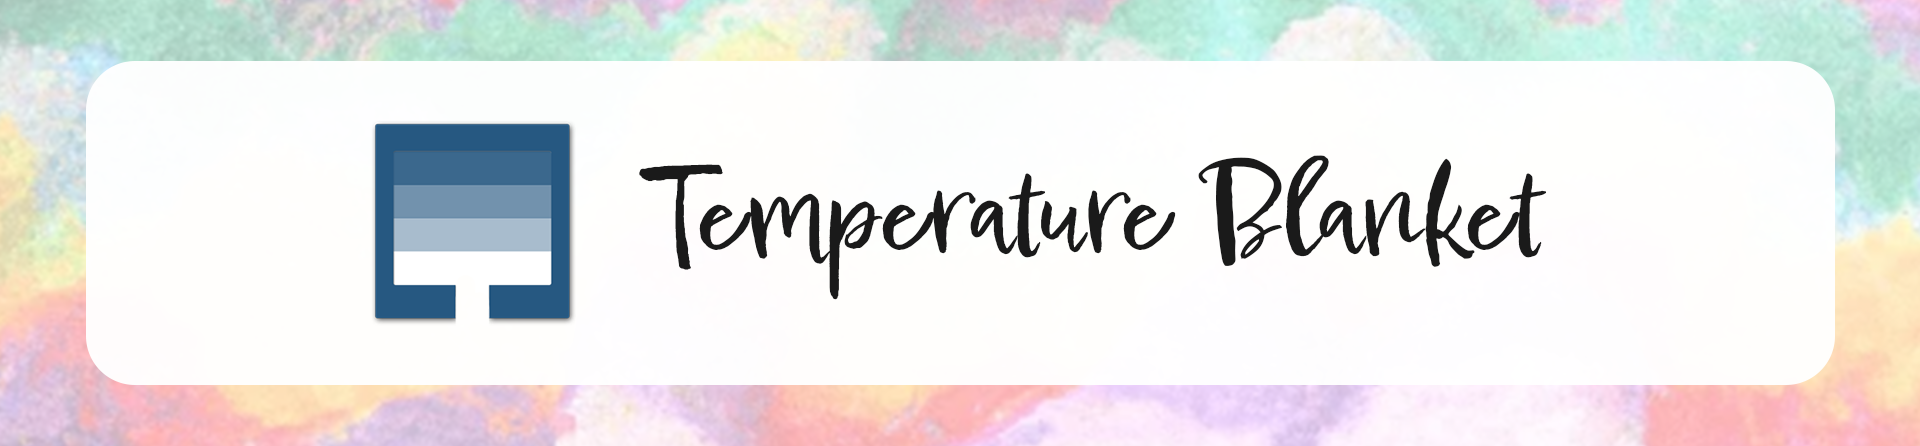
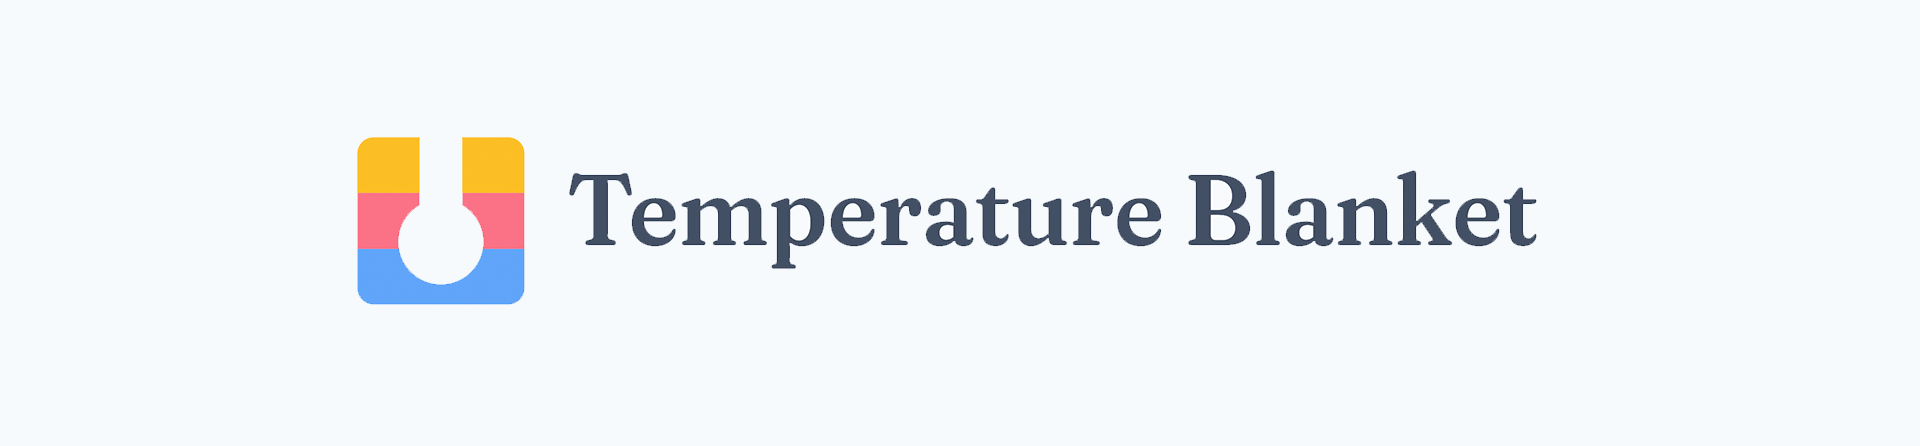
updated images

diff --git a/src/lib/components/AppLogo.svelte b/src/lib/components/AppLogo.svelte
@@ -19,23 +19,21 @@ If not, see <https://www.gnu.org/licenses/>. -->
 
 <div class="[view-transition-name:app-logo]">
   <div class="flex items-center gap-2 mx-4">
-    <div>
-      <div class="flex rounded-[0.2rem] overflow-hidden">
-        <div class="flex flex-col items-center size-8 relative">
-          <div class="flex flex-col items-center absolute">
-            <div class="h-4 w-2 bg-surface-50-950 rounded-t-sm"></div>
-            <div
-              class="size-4 bg-surface-50-950 rounded-full relative -top-1"
-            ></div>
-          </div>
-
-          <div class="w-full flex-auto bg-amber-400"></div>
-          <div class="w-full flex-auto bg-rose-400"></div>
-          <div class="w-full flex-auto bg-blue-400"></div>
+    <div class="rounded-[0.2rem] overflow-hidden shrink-0">
+      <div class="flex flex-col items-center size-8 relative">
+        <div class="flex flex-col items-center absolute">
+          <div class="h-4 w-2 bg-surface-50-950 rounded-t-sm"></div>
+          <div
+            class="size-4 bg-surface-50-950 rounded-full relative -top-1"
+          ></div>
         </div>
+
+        <div class="w-full flex-auto bg-amber-400"></div>
+        <div class="w-full flex-auto bg-rose-400"></div>
+        <div class="w-full flex-auto bg-blue-400"></div>
       </div>
     </div>
-    <h5 class="h5 text-surface-700 dark:text-surface-100">
+    <h5 class="h5 text-surface-700 dark:text-surface-100 leading-tight">
       {PUBLIC_SITE_TITLE}
     </h5>
   </div>

diff --git a/src/routes/.dev-tools/extract-yarn-colorways/+page.svelte b/src/routes/.dev-tools/extract-yarn-colorways/+page.svelte
@@ -130,7 +130,7 @@
   <meta property="og:description" content="Extract Yarn Colorways" />
   <!-- <meta property="og:url" content="https://temperature-blanket.com" />
     <meta property="og:type" content="website" />
-    <meta property="og:image" content="https://temperature-blanket.com/images/temperature-blanket-og-image-1.748.jpg" />
+    <meta property="og:image" content="https://temperature-blanket.com/images/temperature-blanket-og-image-5.0.0.jpg" />
     <meta property="og:image:width" content="1200" />
     <meta property="og:image:height" content="630" /> -->
 </svelte:head>

diff --git a/src/routes/+page.svelte b/src/routes/+page.svelte
@@ -142,7 +142,7 @@ If not, see <https://www.gnu.org/licenses/>. -->
   <meta property="og:type" content="website" />
   <meta
     property="og:image"
-    content="{PUBLIC_BASE_URL}/images/temperature-blanket-og-image-1.748.jpg"
+    content="{PUBLIC_BASE_URL}/images/temperature-blanket-og-image-5.0.0.jpg"
   />
   <meta property="og:image:width" content="1200" />
   <meta property="og:image:height" content="630" />
